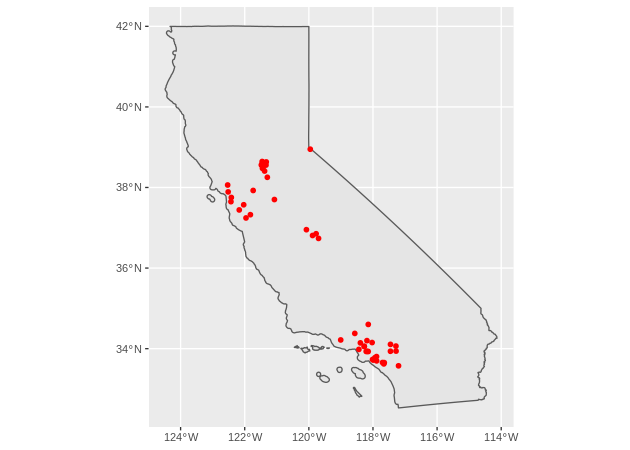
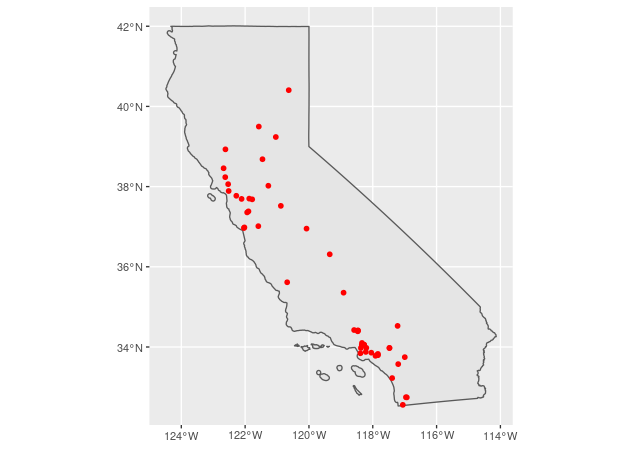
polygon = TRUE >> points_only = FALSE / relates #8

diff --git a/README.md b/README.md
@@ -41,10 +41,10 @@ overcome this limitation.
 There are other packages much more complete and mature than
 `nominatimlite`, that presents similar features:
 
-  - [`tidygeocoder`](https://jessecambon.github.io/tidygeocoder/) by
+-   [`tidygeocoder`](https://jessecambon.github.io/tidygeocoder/) by
     Jesse Cambon. Allows to interface with Nominatim, Google, TomTom,
     Mapbox, etc. for geocoding and reverse geocoding.
-  - [`osmdata`](https://docs.ropensci.org/osmdata/) by Mark Padgham.
+-   [`osmdata`](https://docs.ropensci.org/osmdata/) by Mark Padgham.
     Great for downloading spatial data from OpenStreetMap, via the
     [Overpass API](https://wiki.openstreetmap.org/wiki/Overpass_API).
 
@@ -81,7 +81,7 @@ library(nominatimlite)
 
 # Extract some points - McDonalds in California
 
-LA <- geo_lite_sf("California", polygon = TRUE)
+LA <- geo_lite_sf("California", points_only = FALSE)
 
 McDonalds <- geo_lite_sf("McDonalds, California",
   limit = 50,
@@ -97,16 +97,32 @@ ggplot(LA) +
 
 <img src="man/figures/README-McDonalds-1.png" width="100%" />
 
-You can also extract polygons using the option `polygon = TRUE`:
+You can also extract polygon and line objects (as provided by the
+Nominatim API) using the option `points_only = FALSE`:
 
 ``` r
-pentagon_poly <- geo_lite_sf("Pentagon", polygon = TRUE)
+pentagon_poly <- geo_lite_sf("Pentagon", points_only = FALSE) # a building - a polygon
 
 ggplot(pentagon_poly) +
   geom_sf()
 ```
 
 <img src="man/figures/README-penta-1.png" width="100%" />
+
+``` r
+ohio_point <- geo_lite_sf("Ohio, USA") # default - a point
+
+ohio_state <- geo_lite_sf("Ohio, USA", points_only = FALSE) # a US state - a polygon
+
+ohio_river <- geo_lite_sf("Ohio river", points_only = FALSE) # a river - a line
+
+ggplot() +
+  geom_sf(data = ohio_state) +
+  geom_sf(data = ohio_point, color = "red", pch = 4) +
+  geom_sf(data = ohio_river, color = "blue")
+```
+
+<img src="man/figures/README-line-object-1.png" width="100%" />
 
 ### Geocoding and reverse geocoding
 
@@ -134,11 +150,11 @@ Only latitude and longitude are returned from the geocoder service in
 this example, but `full_results = TRUE` can be used to return all of the
 data from the geocoder service.
 
-| query                                      | latitude |   longitude | address                                                                                                                                                |
-| :----------------------------------------- | -------: | ----------: | :----------------------------------------------------------------------------------------------------------------------------------------------------- |
-| 1600 Pennsylvania Ave NW, Washington, DC   | 38.89770 |  \-77.03655 | White House, 1600, Pennsylvania Avenue Northwest, Washington, District of Columbia, 20500, United States                                               |
-| 600 Montgomery St, San Francisco, CA 94111 | 37.79520 | \-122.40279 | Transamerica Pyramid, 600, Montgomery Street, Chinatown, San Francisco, San Francisco City and County, San Francisco, California, 94111, United States |
-| 233 S Wacker Dr, Chicago, IL 60606         | 41.87887 |  \-87.63591 | Willis Tower, 233, South Wacker Drive, Printer’s Row, Loop, Chicago, Cook County, Illinois, 60606, United States                                       |
+| query                                      | latitude |  longitude | address                                                                                                                                                |
+|:-------------------------------------------|---------:|-----------:|:-------------------------------------------------------------------------------------------------------------------------------------------------------|
+| 1600 Pennsylvania Ave NW, Washington, DC   | 38.89770 |  -77.03655 | White House, 1600, Pennsylvania Avenue Northwest, Washington, District of Columbia, 20500, United States                                               |
+| 600 Montgomery St, San Francisco, CA 94111 | 37.79520 | -122.40279 | Transamerica Pyramid, 600, Montgomery Street, Chinatown, San Francisco, San Francisco City and County, San Francisco, California, 94111, United States |
+| 233 S Wacker Dr, Chicago, IL 60606         | 41.87887 |  -87.63591 | Willis Tower, 233, South Wacker Drive, Printer’s Row, Loop, Chicago, Cook County, Illinois, 60606, United States                                       |
 
 To perform reverse geocoding (obtaining addresses from geographic
 coordinates), we can use the `reverse_geo_lite()` function. The
@@ -154,11 +170,11 @@ reverse <- reverse_geo_lite(
 )
 ```
 
-| address\_found                                                                                                                                         |      lat |         lon |
-| :----------------------------------------------------------------------------------------------------------------------------------------------------- | -------: | ----------: |
-| White House, 1600, Pennsylvania Avenue Northwest, Washington, District of Columbia, 20500, United States                                               | 38.89770 |  \-77.03655 |
-| Transamerica Pyramid, 600, Montgomery Street, Chinatown, San Francisco, San Francisco City and County, San Francisco, California, 94111, United States | 37.79520 | \-122.40279 |
-| Willis Tower, 233, South Wacker Drive, Printer’s Row, Loop, Chicago, Cook County, Illinois, 60606, United States                                       | 41.87887 |  \-87.63591 |
+| address\_found                                                                                                                                         |      lat |        lon |
+|:-------------------------------------------------------------------------------------------------------------------------------------------------------|---------:|-----------:|
+| White House, 1600, Pennsylvania Avenue Northwest, Washington, District of Columbia, 20500, United States                                               | 38.89770 |  -77.03655 |
+| Transamerica Pyramid, 600, Montgomery Street, Chinatown, San Francisco, San Francisco City and County, San Francisco, California, 94111, United States | 37.79520 | -122.40279 |
+| Willis Tower, 233, South Wacker Drive, Printer’s Row, Loop, Chicago, Cook County, Illinois, 60606, United States                                       | 41.87887 |  -87.63591 |
 
 For more advance users, see [Nominatim
 docs](https://nominatim.org/release-docs/latest/api/Search/) to check
